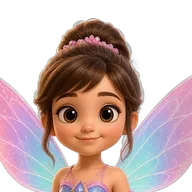
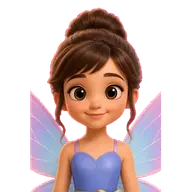
Add the Fairy to the HD pack and remove Pirate and Knight.
The Fairy is a full 512x801 character with 20 fitted hats, outfits, shoes, and pets. Old saves that still own Pirate or Knight get those coins back and switch to the Wizard, or to the classic avatar if the HD pack is not open.

diff --git a/index.html b/index.html
@@ -10102,11 +10102,9 @@
     const HD_PACK_COST = 10, HD_PIECE_COST = 2, HD_CHAR_COST = 100, HD_DIR = "./assets/hd/";
     const HD_ITEMS = [
       {"id":"xbA","slot":"look","name":"Wizard","f":"c_wizard","ch":"wizard","free":1},
+      {"id":"xfai","slot":"look","name":"Fairy","f":"c_fairy","ch":"fairy"},
       {"id":"xbB","slot":"look","name":"Space explorer","f":"c_space","ch":"space"},
       {"id":"xrob","slot":"look","name":"Robot","f":"c_robot","ch":"robot"},
-      {"id":"xpir","slot":"look","name":"Pirate","f":"c_pirate","ch":"pirate"},
-      {"id":"xfai","slot":"look","name":"Fairy","f":"c_fairy","ch":"fairy"},
-      {"id":"xkni","slot":"look","name":"Knight","f":"c_knight","ch":"knight"},
       {"id":"wh1","slot":"hat","name":"Blue star hat","f":"w_h1","ch":"wizard","L":[26.95,10.74,45.31,26.09]},
       {"id":"wh2","slot":"hat","name":"Moon hat + gold specs","f":"w_h2","ch":"wizard","L":[26.37,10.49,46.29,23.72]},
       {"id":"wh3","slot":"hat","name":"Rainbow feather hat","f":"w_h3","ch":"wizard","L":[24.8,9.74,49.41,25.47]},
@@ -10126,32 +10124,64 @@
       {"id":"wp2","slot":"pet","name":"Star kitten","f":"w_p2","ch":"wizard","L":[61.91,70.41,29.69,23.85]},
       {"id":"wp3","slot":"pet","name":"Baby dragon","f":"w_p3","ch":"wizard","L":[66.8,69.04,28.71,24.72]},
       {"id":"wp4","slot":"pet","name":"Crowned toad","f":"w_p4","ch":"wizard","L":[71.29,79.4,21.48,15.73]},
-      {"id":"wp5","slot":"pet","name":"Phoenix chick","f":"w_p5","ch":"wizard","L":[61.91,69.41,30.27,24.84]}
+      {"id":"wp5","slot":"pet","name":"Phoenix chick","f":"w_p5","ch":"wizard","L":[61.91,69.41,30.27,24.84]},
+      {"id":"fh1","slot":"hat","name":"Flower crown","f":"f_h1","ch":"fairy","L":[38.28,21.1,23.24,6.24]},
+      {"id":"fh2","slot":"hat","name":"Star tiara","f":"f_h2","ch":"fairy","L":[38.87,22.35,21.88,14.61]},
+      {"id":"fh3","slot":"hat","name":"Daisy sun hat","f":"f_h3","ch":"fairy","L":[29.1,18.73,41.6,24.09]},
+      {"id":"fh4","slot":"hat","name":"Mushroom cap","f":"f_h4","ch":"fairy","L":[26.56,15.86,46.48,22.35]},
+      {"id":"fh5","slot":"hat","name":"Petal bonnet","f":"f_h5","ch":"fairy","L":[24.8,16.23,50.2,30.34]},
+      {"id":"fo1","slot":"shirt","name":"Rose petal gown","f":"f_o1","ch":"fairy"},
+      {"id":"fo2","slot":"shirt","name":"Forest leaf dress","f":"f_o2","ch":"fairy"},
+      {"id":"fo3","slot":"shirt","name":"Twilight star gown","f":"f_o3","ch":"fairy"},
+      {"id":"fo4","slot":"shirt","name":"Sunny daisy dress","f":"f_o4","ch":"fairy"},
+      {"id":"fo5","slot":"shirt","name":"Rainbow petal dress","f":"f_o5","ch":"fairy"},
+      {"id":"fs1","slot":"shoes","name":"Glitter slippers","f":"f_s1","ch":"fairy","L":[40.82,87.14,18.55,7.62]},
+      {"id":"fs2","slot":"shoes","name":"Rose petal shoes","f":"f_s2","ch":"fairy","L":[40.23,87.14,19.73,7.62]},
+      {"id":"fs3","slot":"shoes","name":"Leaf slippers","f":"f_s3","ch":"fairy","L":[40.23,87.14,20.12,7.62]},
+      {"id":"fs4","slot":"shoes","name":"Crystal star shoes","f":"f_s4","ch":"fairy","L":[41.21,87.14,17.77,7.62]},
+      {"id":"fs5","slot":"shoes","name":"Gold blossom boots","f":"f_s5","ch":"fairy","L":[40.82,83.4,18.75,11.36]},
+      {"id":"fp1","slot":"pet","name":"Butterfly buddy","f":"f_p1","ch":"fairy","L":[60.16,67.92,38.28,18.73]},
+      {"id":"fp2","slot":"pet","name":"Flower bunny","f":"f_p2","ch":"fairy","L":[60.16,71.91,29.3,23.47]},
+      {"id":"fp3","slot":"pet","name":"Ladybug","f":"f_p3","ch":"fairy","L":[60.16,76.65,29.88,18.73]},
+      {"id":"fp4","slot":"pet","name":"Fawn","f":"f_p4","ch":"fairy","L":[60.16,70.41,26.17,24.97]},
+      {"id":"fp5","slot":"pet","name":"Bluebird","f":"f_p5","ch":"fairy","L":[60.16,74.16,22.46,21.22]}
     ];
     function hdItem(id) { return HD_ITEMS.find(function (i) { return i.id === id; }) || null; }
-    function hdClean(h) {
+    // Pirate and Knight left the HD pack. Characters refund HD_CHAR_COST; a leftover character-specific item (none shipped) refunds $5.
+    const HD_GONE = { xpir: "char", xkni: "char" };
+    const HD_REFUND_KEY = "mf-hd-refunded";
+    function hdGoneKind(id) {
+      if (HD_GONE[id]) return HD_GONE[id];
+      if (typeof id === "string" && /^(pir|kni)[._-]/.test(id)) return "item";
+      return "";
+    }
+    function hdClean(h, pack) {
       h = h && typeof h === "object" ? h : {};
       const o = Array.isArray(h.o) ? h.o.filter(function (id, i, arr) { const it = hdItem(id); return it && !it.free && arr.indexOf(id) === i; }) : [];
       const w = {};
       Object.keys(h.w || {}).forEach(function (k) { const it = hdItem(h.w[k]); if (it && it.slot === k && k !== "look" && o.indexOf(it.id) >= 0) w[k] = it.id; });
-      const b = hdItem(h.b) && (hdItem(h.b).free || o.indexOf(h.b) >= 0) ? h.b : "xbA";
-      return { o: o, w: w, b: b, on: h.on ? 1 : 0 };
+      const cur = hdItem(h.b);
+      let b = cur && (cur.free || o.indexOf(h.b) >= 0) ? h.b : "xbA";
+      let on = h.on ? 1 : 0;
+      if (h.b && hdGoneKind(h.b) === "char") { b = "xbA"; if (!pack) on = 0; }
+      return { o: o, w: w, b: b, on: on };
     }
     function hdHas(id) { const it = hdItem(id); return !!it && (it.free || avatar.hd.o.indexOf(id) >= 0); }
     function hdOn() { return avatar.pk.indexOf("hd") >= 0 && avatar.hd.on === 1; }
     // One body per character on a 512x750 frame; each item is placed from that character's anchors
     // (h: hat [x, brim y, width], g: glasses [x, y, width], t: torso [x, top, w, h], f: feet [left x, right x, width], k: fist [x, y]).
     // Images load only when this is called.
-    // Wizard: one 512x801 body per outfit (base robe is free); hat, shoes, pet and hand item are layers cut from
-    // renders of this exact wizard, so they sit at fixed spots (L = left, top, width, height in %). Other characters: body only.
+    // Wizard and Fairy: one 512x801 body per outfit (base is free); hat, shoes and pet are layers cut from
+    // renders of that exact character, so they sit at fixed spots (L = left, top, width, height in %). Others: body only.
     // Images load only when this is called, and only for the selected character.
     const HD_LAYER_ORDER = ["shoes", "pet", "hat"];
+    const HD_BODY = { wizard: "w_base", fairy: "f_base" };
     function hdLayers(h) {
-      const c = hdItem(h.b) || HD_ITEMS[0], wiz = c.ch === "wizard";
+      const c = hdItem(h.b) || HD_ITEMS[0], body = HD_BODY[c.ch];
       const it = function (k) { const i = h.w && h.w[k] ? hdItem(h.w[k]) : null; return i && i.ch === c.ch ? i : null; };
-      if (!wiz) return { r: 0.683, l: [{ f: c.f }] };
-      const o = it("shirt"), l = [{ f: o ? o.f : "w_base" }];
-      HD_LAYER_ORDER.forEach(function (k) { const i = it(k); if (i) l.push({ f: i.f, L: i.L }); });
+      if (!body) return { r: 0.683, l: [{ f: c.f }] };
+      const o = it("shirt"), l = [{ f: o ? o.f : body }];
+      HD_LAYER_ORDER.forEach(function (k) { const i = it(k); if (i && i.L) l.push({ f: i.f, L: i.L }); });
       return { r: 0.639, l: l };
     }
     function hdNode(h, size) {
@@ -10195,7 +10225,7 @@
     function hdPicHTML(u, px, r) { return '<img class="hd-pic" src="' + u + '" alt="" draggable="false" style="height:' + px + 'px;width:' + Math.round(px * r) + 'px">'; }
     // Returns HTML: the cached HD picture, or the classic avatar until the picture is ready (then it swaps in place).
     function hdPicOr(a, px, classic, keep, head) {
-      const h = hdClean(a.hd), k = hdPicKey(h, px, head), u = hdPicGet(k), r = head ? 1 : hdLayers(h).r;
+      const h = hdClean(a.hd, !!(a.pk && a.pk.indexOf("hd") >= 0)), k = hdPicKey(h, px, head), u = hdPicGet(k), r = head ? 1 : hdLayers(h).r;
       if (u) return hdPicHTML(u, px, r);
       hdPicMake(h, px, keep && !head, head);
       return '<span class="hd-pic-wait" data-hdk="' + k + '">' + classic + "</span>";
@@ -10223,7 +10253,7 @@
         hair: ok(AV_HAIRS, a.hair, "none"), hairColor: AV_HAIR_COLORS.indexOf(a.hairColor) >= 0 ? a.hairColor : AV_HAIR_COLORS[1], wear: wear, owned: owned,
         pz: Math.max(0, Math.min(99, Number(a.pz) || 0)), pg: a.pg ? 1 : 0,
         pk: Array.isArray(a.pk) ? a.pk.filter(function (k, i, arr) { return (k === "hd" || AV_PACKS.some(function (x) { return x[0] === k; })) && arr.indexOf(k) === i; }) : [],
-        hd: hdClean(a.hd),
+        hd: hdClean(a.hd, Array.isArray(a.pk) && a.pk.indexOf("hd") >= 0),
         updated: Number(a.updated) || 0 };
     }
     let avatar = (function () { try { return avClean(JSON.parse(localStorage.getItem(AV_KEY) || "null")); } catch (e) { return avClean(null); } })();
@@ -10300,6 +10330,7 @@
         const now = lbMe();
         if (!now || now.name !== name) { avLoading = false; return; }
         try { localStorage.setItem(AV_OWNER_KEY, name); } catch (e) {}
+        if (d && d.avatar && d.avatar.hd) hdRefundSweep(d.avatar.hd, name);
         const remote = d && d.avatar ? avClean(d.avatar) : null;
         const resetAt = Number(localStorage.getItem(AV_RESET_KEY) || 0);
         if (!remote || (remote.updated && remote.updated < resetAt)) { if (avatar.made || avatar.owned.length) avSetPending(true); done(); return; }
@@ -10770,6 +10801,41 @@
     function coinSet(n) { try { localStorage.setItem(COIN_KEY, String(Math.max(0, n))); } catch (e) {} }
     function coinSpend(amount) { const n = Math.max(1, Math.floor(Number(amount) || 1)), c = coinGet(); if (c < n) { say(n === 1 ? "You need a coin. Get " + AV_PRIZE_EVERY + " in a row to earn one!" : "You need " + n + " coins. You have " + c + "."); return false; } coinSet(c - n); coinPillUpdate(); return true; }
     function coinPillUpdate() { const c = coinGet(), t = c + (c === 1 ? " coin" : " coins"); document.querySelectorAll(".coin-bank").forEach(function (b) { b.setAttribute("aria-label", t); const s = b.lastChild; if (s) s.textContent = b.getAttribute("data-short") ? String(c) : t; b.classList.remove("coin-bump"); void b.offsetWidth; b.classList.add("coin-bump"); }); }
+    // One refund per removed id per kid. Reads the raw save (before hdClean drops unknown ids) and never pays twice.
+    function hdRefundSweep(rawHd, who) {
+      if (!rawHd || typeof rawHd !== "object") return 0;
+      let map = {};
+      try { map = JSON.parse(localStorage.getItem(HD_REFUND_KEY) || "{}") || {}; } catch (e) { map = {}; }
+      const key = who || "_";
+      let changed = false;
+      if (key !== "_" && map._ && !map._moved) { map[key] = Object.assign({}, map._, map[key] || {}); map._moved = 1; changed = true; }
+      const done = map[key] && typeof map[key] === "object" ? map[key] : {};
+      const ids = [];
+      const push = function (id) { if (id && ids.indexOf(id) < 0) ids.push(id); };
+      if (Array.isArray(rawHd.o)) rawHd.o.forEach(push);
+      push(rawHd.b);
+      Object.keys(rawHd.w || {}).forEach(function (k) { push(rawHd.w[k]); });
+      let add = 0;
+      ids.forEach(function (id) {
+        const kind = hdGoneKind(id);
+        if (!kind || done[id]) return;
+        add += kind === "char" ? HD_CHAR_COST : 5;
+        done[id] = 1; changed = true;
+      });
+      if (!changed) return 0;
+      map[key] = done;
+      try { localStorage.setItem(HD_REFUND_KEY, JSON.stringify(map)); } catch (e) {}
+      if (add) { coinSet(coinGet() + add); coinPillUpdate(); }
+      return add;
+    }
+    (function () {
+      let raw = null;
+      try { raw = JSON.parse(localStorage.getItem(AV_KEY) || "null"); } catch (e) { raw = null; }
+      if (!raw || !raw.hd) return;
+      let who = "_";
+      try { who = localStorage.getItem(AV_OWNER_KEY) || "_"; } catch (e) {}
+      if (hdRefundSweep(raw.hd, who)) { try { localStorage.setItem(AV_KEY, JSON.stringify(avatar)); } catch (e) {} }
+    })();
     function coinPill() { const c = coinGet(); return el("p", { class: "coin-bank", role: "status", "aria-label": c + (c === 1 ? " coin" : " coins") }, [el("span", { class: "coin-ico", "aria-hidden": "true", text: "$" }), el("span", { text: c + (c === 1 ? " coin" : " coins") })]); }
     function coinDrop(preview) {
       if (!preview) { coinSet(coinGet() + 1); say("You got a coin!"); }
@@ -11015,7 +11081,7 @@
                 shopTab = "hat"; shopMode = "shop"; paintAll(true);
               });
             } }, [el("span", { class: "shp-pack-art", text: "\u2728" }), el("span", { class: "shp-pack-txt" }, [el("b", { text: "HD Avatar \u00B7 NEW" }),
-              el("small", { text: "6 movie-style 3D characters! Wizard free, others $" + HD_CHAR_COST + ". 20 Wizard items, $" + HD_PIECE_COST + " each. More coming soon." }),
+              el("small", { text: "4 movie-style 3D characters! Wizard free. Fairy is ready. Space Explorer and Robot coming soon. Characters $" + HD_CHAR_COST + ", 20 items each $" + HD_PIECE_COST + "." }),
               hdOpen ? el("span", { class: "shp-st own", text: "\u2713 Open \u00B7 Shop HD" }) : el("span", { class: "shp-buy" + (coinGet() < HD_PACK_COST ? " poor" : "") }, [el("span", { class: "coin-ico", "aria-hidden": "true", text: "$" }), el("span", { text: HD_PACK_COST + " Open" })])])]));
           AV_PACKS.forEach(function (pk) {
             const k = pk[0], open = shopPackOpen(k);
@@ -11034,7 +11100,7 @@
           const c = hdItem(avatar.hd.b) || HD_ITEMS[0];
           if (!HD_ITEMS.some(function (i) { return i.ch === c.ch && i.slot !== "look"; })) {
             seg.setAttribute("hidden", "");
-            body.appendChild(el("p", { class: "av-tip hd-soon", text: c.name + " items: Coming soon! \uD83D\uDEA7 Pick the Wizard in Characters to dress him now." }));
+            body.appendChild(el("p", { class: "av-tip hd-soon", text: c.name + " items: Coming soon! \uD83D\uDEA7 Pick the Wizard or the Fairy in Characters to dress them now." }));
             return;
           }
         }
